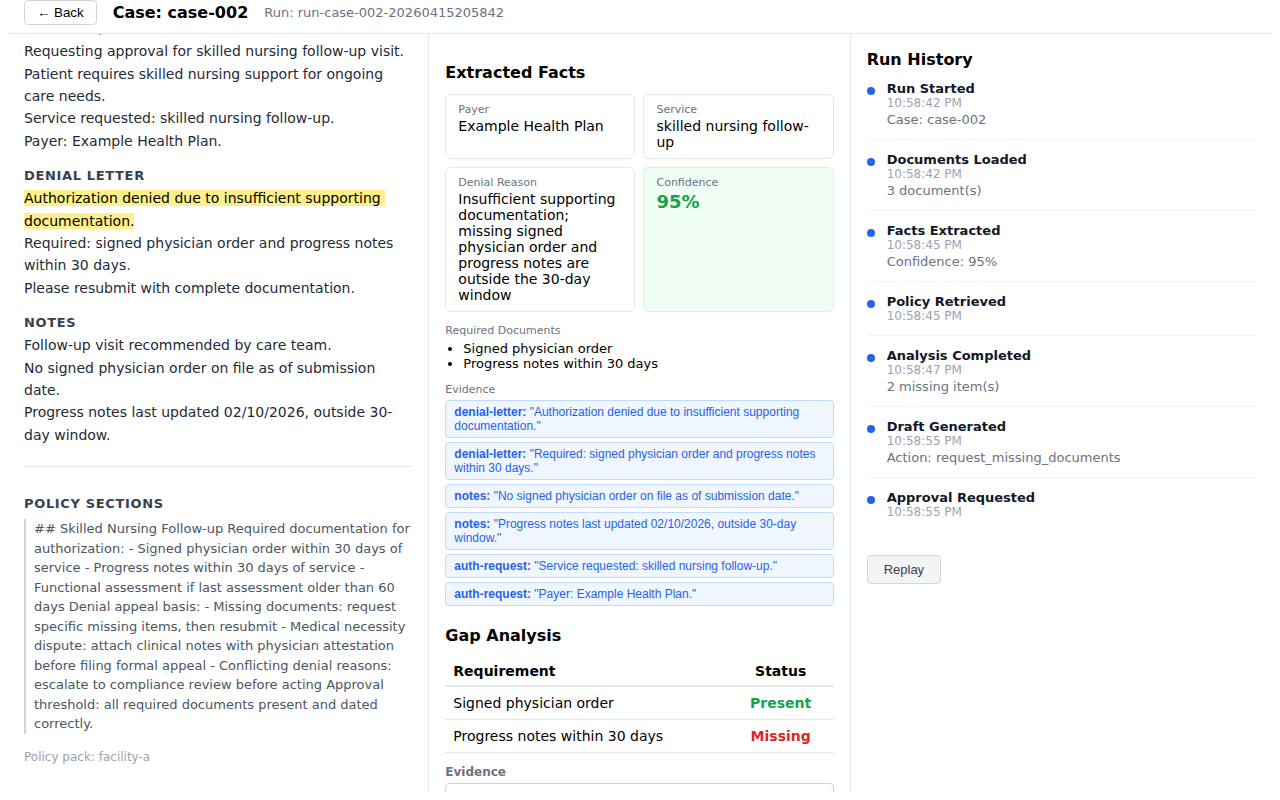
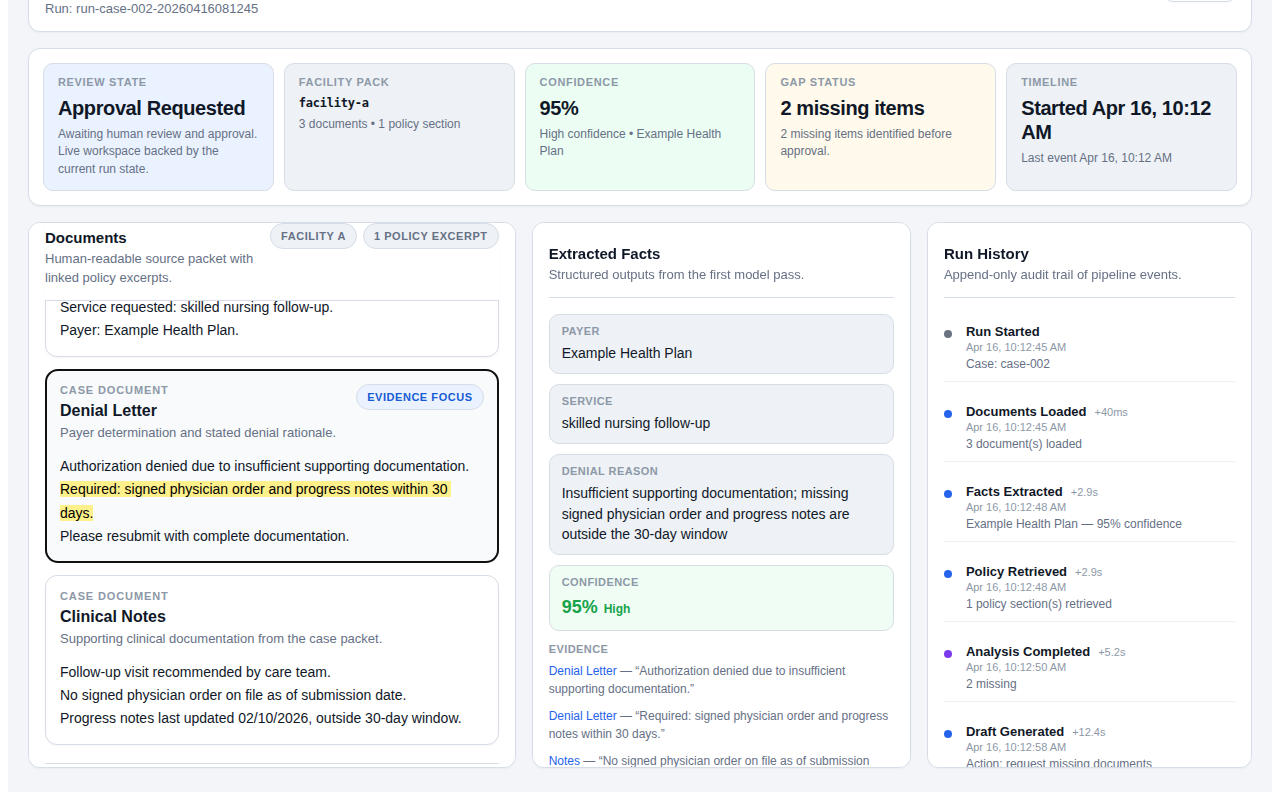
docs(screenshots): regenerate post-hardening screenshots and add alt text (bd-3t3.20)
Ran Playwright e2e suite to regenerate all 6 reference screenshots
against the current post-hardening UI. Updated README screenshot
section with descriptive alt text for accessibility and richer
contextual descriptions matching the current three-panel layout,
evidence highlighting, approval flow, replay, and escalation states.

diff --git a/README.md b/README.md
@@ -28,35 +28,35 @@ case-003 demonstrates the escalation branch: conflicting denial reasons trigger 
 
 ## Screenshots
 
-### Case List
-Three synthetic cases with distinct review paths: happy path, missing docs, escalation.
+### Case Queue
+The triage queue lists all cases with facility, scenario, expected path, and summary columns. Reviewers pick a case and click **Run Review** to start the pipeline.
 
-![Case List](docs/screenshots/01-case-list.png)
+![Triage queue showing three synthetic cases — case-001 (approval path), case-002 (missing documents), case-003 (escalation) — with facility, scenario, path, and summary columns](docs/screenshots/01-case-list.png)
 
 ### Run Results — Three-Panel Layout
-Left: denial letter, auth request, clinical notes, policy excerpt. Center: extracted facts, gap analysis, editable recommendation. Right: event timeline.
+A persistent summary header shows status, facility, confidence, missing-item count, and start time. Left panel: denial letter, auth request, clinical notes, and retrieved policy excerpts. Center panel: extracted facts with color-banded confidence, gap analysis table, and editable recommendation. Right panel: event timeline.
 
-![Run Results](docs/screenshots/02-run-results.png)
+![Three-panel run results for case-002 showing Approval Requested status at 95% confidence, documents with policy excerpts on the left, extracted facts and gap analysis in the center, and the full event timeline on the right](docs/screenshots/02-run-results.png)
 
 ### Evidence Highlight
-Clicking an evidence reference highlights the source quote in the document panel.
+Clicking an evidence reference scrolls to the cited document and highlights the source quote with a yellow marker. An "Evidence focus" badge on the document confirms which source is active.
 
-![Evidence Highlight](docs/screenshots/03-evidence-highlight.png)
+![Evidence highlight view with the Denial Letter section active, showing a yellow-highlighted quote and an Evidence Focus badge on the document card](docs/screenshots/03-evidence-highlight.png)
 
 ### After Approve
-Reviewer edits draft text and clicks Approve. Badge confirms `approved` status; textarea is locked.
+The reviewer edits the draft text and clicks **Approve**. The status transitions to `approved`, the textarea locks into a read-only "Final Text" display, and the event timeline gains an "Approved" entry.
 
-![After Approve](docs/screenshots/04-after-approve.png)
+![Approved state for case-002 with green Approved badge, locked final recommendation text, and the complete event timeline showing all pipeline stages through approval](docs/screenshots/04-after-approve.png)
 
 ### Replay
-Deterministic reconstruction from JSONL log — no model call. Amber REPLAY badge confirms read-only state.
+Clicking **Replay** reconstructs the full run state from the JSONL event log — no model call is made. An amber REPLAY badge confirms the view is a read-only reconstruction.
 
-![Replay](docs/screenshots/05-replay.png)
+![Replay mode for case-002 showing the same approved state reconstructed from the JSONL audit log, with an amber REPLAY badge in the run history panel](docs/screenshots/05-replay.png)
 
 ### Escalation (case-003)
-Conflicting denial reasons trigger escalation. Draft and Approve UI suppressed; escalation notice shown.
+Conflicting denial reasons trigger `should_escalate: true`. A red banner blocks the workflow — no draft is generated, no Approve button is shown. The server enforces this with a 409 guard on the approve endpoint.
 
-![Escalation](docs/screenshots/06-escalation.png)
+![Escalation view for case-003 with a red Case Escalated — Workflow Blocked banner, suppressed approval controls, 72% confidence, and 1 conflict flagged in the gap analysis](docs/screenshots/06-escalation.png)
 
 ---
 
